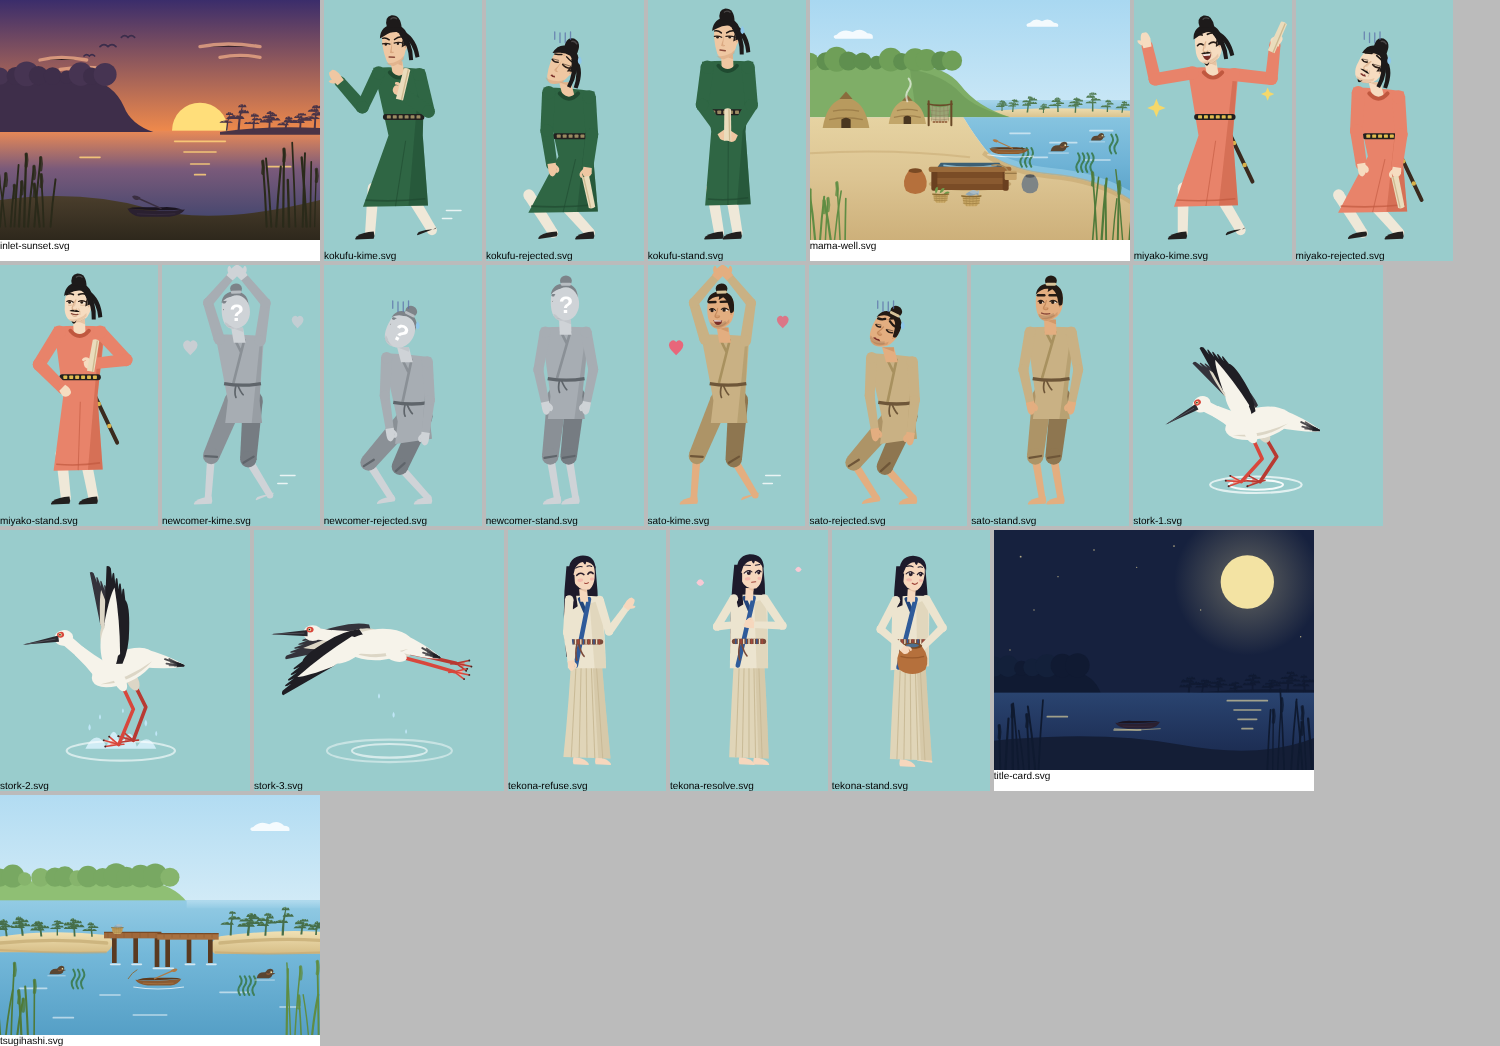
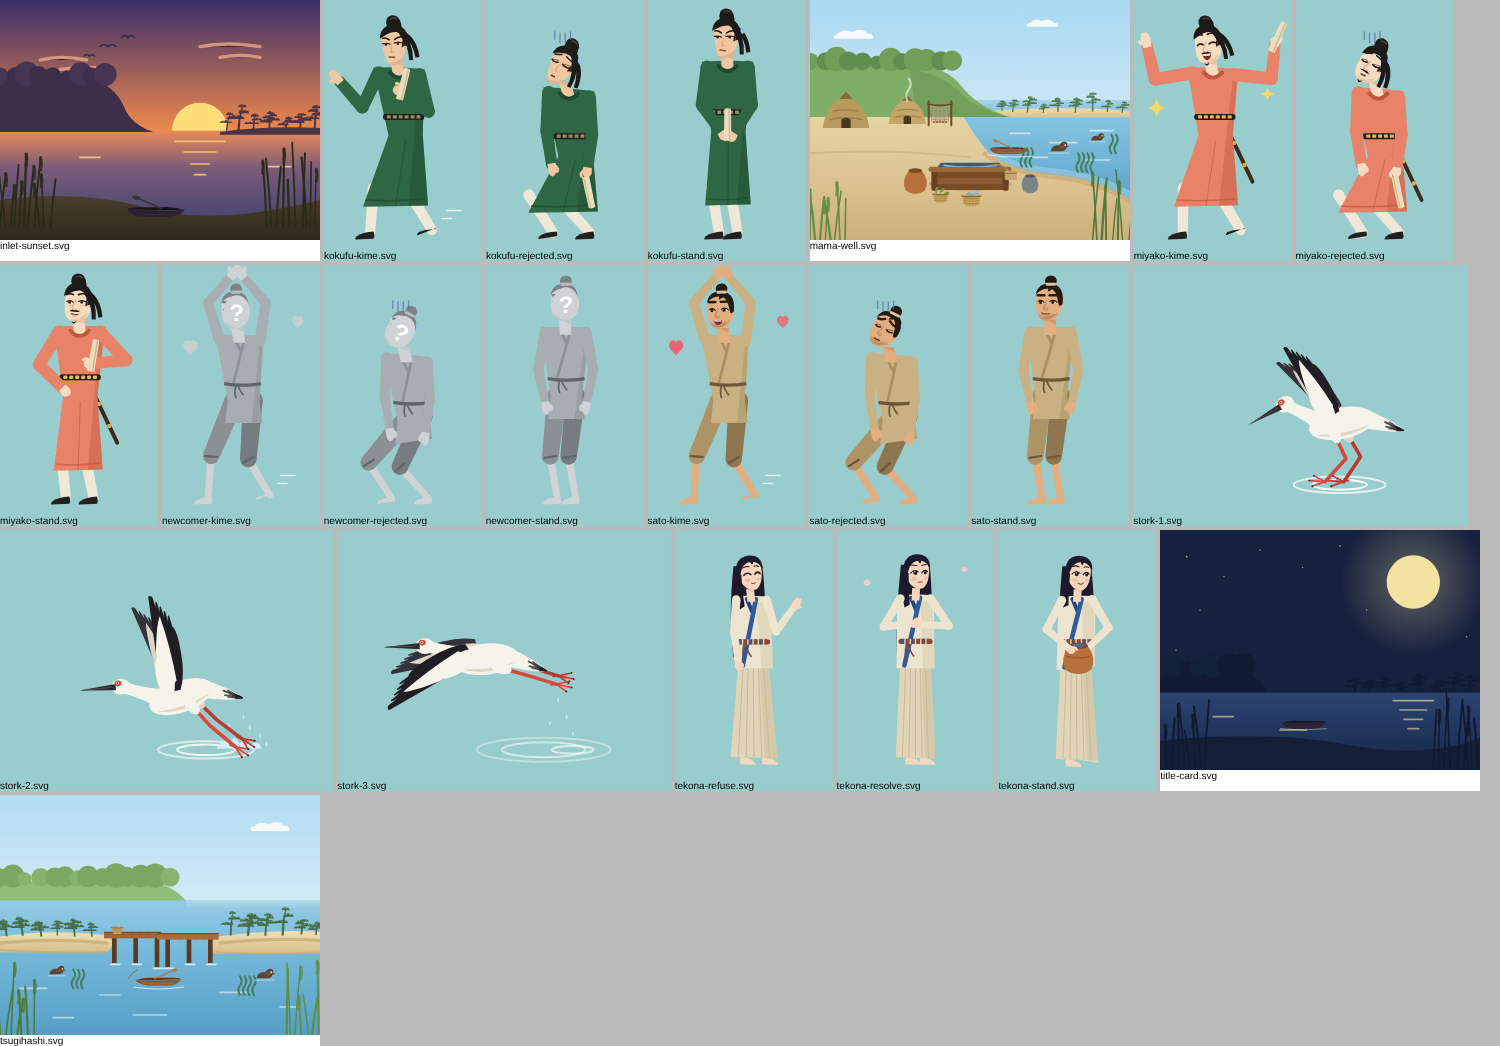
fix(tekona): コウノトリが斜め前へ低く飛び出し、波紋が後ろに残る動きにする
- 2枚目：真上に跳ぶのをやめ、斜め前へ身を乗り出して脚で水を後ろへけり出す。重心は1枚目よりいったん下げる
- 3枚目：翼で風をとらえ、前へ進みながら上がる
- 飛び立つ場所の波紋を3枚で動かさず、鳥を前（画面の左）へ進めるので、波紋は鳥の後ろに残る
- 画像を320×240（viewBox -80 -40 320 240）に広げ、回転中心を飛び立つ場所の水面（198, 210）にする
版4の生成スクリプト・素材・一覧画像・版の記録と stories/tekona/assets を更新。

Claude-Session: https://claude.ai/code/session_011SEzgWsvxN8M8X3xfVu3am

Changed region(s): [[0.552, 0.2447, 1.0, 0.7648], [0.0307, 0.5201, 0.5213, 0.7648]]

diff --git a/resources/tekona-workshop/art-versions/README.md b/resources/tekona-workshop/art-versions/README.md
@@ -53,10 +53,15 @@
   * 砂州の松を、1本ずつ高さ・幹の曲がり・海側への傾き・葉の段の数が違う松にした（版2は同じ形の木を並べていた）。
   * 小道具：岸に引き上げた丸木舟と櫂、竿に干した網と土錘、井戸のそばの草で編んだかご（魚・菜）、
     継橋のたもとにつないだ丸木舟と橋の上のかご、夕日と月夜の入江の丸木舟（シルエット）。人物と重ならない位置に置いています。
-* **コウノトリの3枚絵**（`stork-1`〜`stork-3`、240×240）：水辺から飛び立つアニメーション。
-  1枚目は身をかがめて翼を半分ひらく、2枚目は水をけって翼を高く振り上げる（しぶき）、3枚目は首をのばし翼を打ちおろして宙に浮き、脚を後ろへのばす。
-  白い体・黒い風切羽・黒いくちばし、目のまわりと脚は赤。目は頭の中ほどより少し上。尾羽は後ろへ行くほど細くなる三角で、白い毛の筆に墨を不均一につけたように先へ向かって黒い筋が濃くなり、先を下へ向ける。肩から上腕を白い斜めの楕円で描いて翼を胴体の前寄りから生やし、
-  脚の付け根（すねの上）は羽毛の白い斜めの楕円でおおう。足は前の3本の指と付け根の水かき、後ろの短い指。3枚とも水面の位置（画像の左上から120, 210）をそろえてあるので、
-  回転の中心をそこにすれば同じ場所で切り替えられます。台本と`project-assets-dsl4.yml`にはまだ登録していません。
+* **コウノトリの3枚絵**（`stork-1`〜`stork-3`、320×240）：水辺から飛び立つアニメーション。大型の鳥なので真上には跳ばず、次の順に動きます。
+  1. 身をかがめ、翼を半分ひらいて構える。
+  2. 斜め前へ身を乗り出し、脚で水を後ろへけり出す（しぶき）。胴体は前に傾き、重心は1枚目よりいったん下がる。翼は打ちおろしの前で高く上げている。
+  3. 翼を打ちおろして風をとらえ、前へ進みながら上がる。首をのばし、脚は後ろへのばす。
+
+  3枚とも水面（y=170）と飛び立つ場所の波紋の位置をそろえてあり、鳥は3枚のあいだに前（画面の左）へ進みます。そのため波紋は、鳥から見て後ろへ残ります。
+  回転の中心は、飛び立つ場所の水面（画像の左上から198, 210）です。スプライトを動かさずにコスチュームだけを切り替えると、この場所から飛び立って見えます。
+  白い体・黒い風切羽・黒いくちばし、目のまわりと脚は赤。目は頭の中ほどより少し上。尾羽は後ろへ行くほど細くなる三角で、白い毛の筆に墨を不均一につけたように先へ向かって黒い筋が濃くなり、先を下へ向ける。
+  肩から上腕を白い斜めの楕円で描いて翼を胴体の前寄りから生やし、脚の付け根（すねの上）は羽毛の白い斜めの楕円でおおう。足は前の3本の指と付け根の水かき、後ろの短い指。
+  台本と`project-assets-dsl4.yml`にはまだ登録していません。
 
 ライセンスは`stories/tekona/assets/`と同じMPL-2.0です（[`stories/tekona/LICENSES.md`](../../../stories/tekona/LICENSES.md)）。
